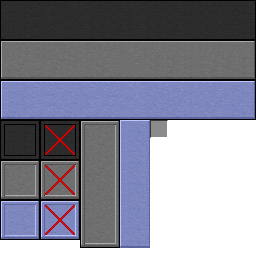
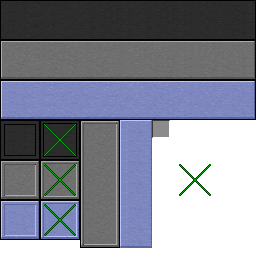
update checkbox to use a green check, and be larger.  update scrollbar to be 2px wider.  readjust texture renderPos for affected guiElements.

diff --git a/AncientWarfare/src/shadowmage/ancient_warfare/client/gui/elements/GuiScrollBarSimple.java b/AncientWarfare/src/shadowmage/ancient_warfare/client/gui/elements/GuiScrollBarSimple.java
@@ -35,7 +35,7 @@ int handleHeight;
 public int handleTop;
 
 
-final int buffer = 5;
+final int buffer = 4;
 
 /**
  * @param elementNum
@@ -59,7 +59,7 @@ public void drawElement(int mouseX, int mouseY)
     {
     String tex = "/shadowmage/ancient_warfare/resources/gui/guiButtons.png";  
     this.drawQuadedTexture(renderPosX+guiLeft, renderPosY+guiTop, width, height, 40, 128, tex, 80, 120); 
-    this.drawQuadedTexture(renderPosX+guiLeft+buffer, renderPosY+guiTop+buffer+handleTop, width-buffer*2, handleHeight, 30, 128, tex, 120, 120);
+    this.drawQuadedTexture(renderPosX+guiLeft+buffer, renderPosY+guiTop+buffer+handleTop, width-buffer*2, handleHeight, 32, 128, tex, 120, 120);
     }
   }
 

diff --git a/AncientWarfare/src/shadowmage/ancient_warfare/client/gui/GuiContainerAdvanced.java b/AncientWarfare/src/shadowmage/ancient_warfare/client/gui/GuiContainerAdvanced.java
@@ -366,7 +366,7 @@ protected void drawGuiContainerBackgroundLayer(float var1, int mouseX, int mouse
     for(Object ob : this.inventorySlots.inventorySlots)    
       {      
       Slot slot = (Slot)ob;
-      this.drawTexturedModalRect(slot.xDisplayPosition-1+guiLeft, slot.yDisplayPosition-1+guiTop, 150, 120, 18, 18);      
+      this.drawTexturedModalRect(slot.xDisplayPosition-1+guiLeft, slot.yDisplayPosition-1+guiTop, 152, 120, 18, 18);      
       }    
     }  
   GL11.glPushMatrix();
